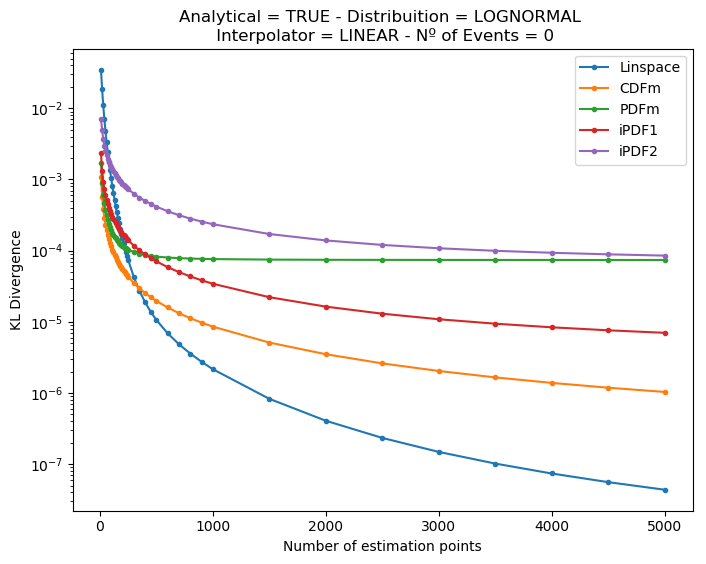
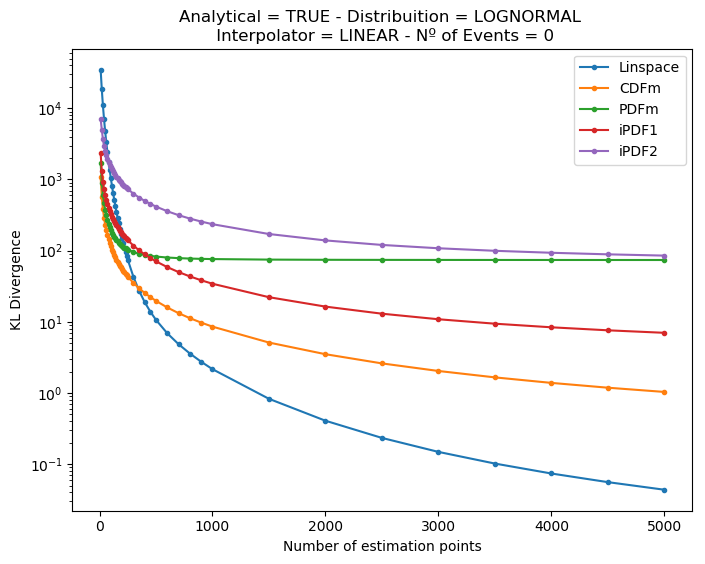
Bug fixed

diff --git a/divergency.py b/divergency.py
@@ -7,13 +7,13 @@ Created on Wed Nov 14 12:37:41 2018
 
 def L2(P,Q):
     import numpy as np
-    simi = (np.sqrt(np.sum((P-Q)**2)))/np.size(P)
+    simi = (np.sqrt(np.sum((P-Q)**2)))#/np.size(P)
     return simi
 
 
 def L1(P,Q):
     import numpy as np
-    simi = (np.sum(np.abs(P-Q)))/np.size(P)
+    simi = (np.sum(np.abs(P-Q)))#/np.size(P)
     return simi
 
 def KL(P,Q):
@@ -23,6 +23,5 @@ def KL(P,Q):
     indN = np.where(np.isnan(simi) == False)
     indF = np.where(np.isinf(simi) == False)
     index = np.intersect1d(indN,indF)
-    simi= np.abs(np.sum(simi[index])/np.size(P))
-    
+    simi = np.abs(np.sum(simi[index]))#/np.size(P))
     return simi

diff --git a/run.py b/run.py
@@ -39,7 +39,7 @@ if __name__ == '__main__':
     mu = 0
     sigma = 1
     
-    divergence = 'KL'       # L2 e KL
+    divergence = 'L1'       # L2 e KL
     interpolator = 'linear'    # nearest
     distribuition = 'lognormal'   # lognormal
     data = 0
